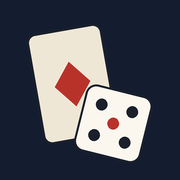
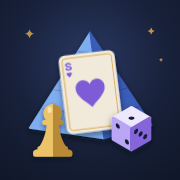
Nuova icona dell'app: asso di cuori con la S, pedone, piramide e dado
L'icona nasce da icone/icona.svg; icone/genera.js rigenera i PNG
(iPhone, Android e versione maskable). I link alle icone hanno ?v=2
così Safari non usa quella vecchia dalla cache.

Claude-Session: https://claude.ai/code/session_01HfzGfURkaaPzAZYyJ5YpxD

diff --git a/icone/genera.js b/icone/genera.js
@@ -1,0 +1,32 @@
+/* Rigenera le icone PNG dell'app a partire da icona.svg.
+   Uso (nella sandbox di Claude):
+     PLAYWRIGHT_BROWSERS_PATH=/opt/pw-browsers node icone/genera.js
+   Altrove indica dove sta Playwright con  PLAYWRIGHT=<percorso del pacchetto>. */
+const fs = require('fs');
+const path = require('path');
+const { chromium } = require(process.env.PLAYWRIGHT || '/opt/node-tools/node_modules/playwright');
+
+const svg = fs.readFileSync(path.join(__dirname, 'icona.svg'), 'utf8');
+const USCITE = [
+  // nome, lato in pixel, scala del disegno
+  ['icon-512.png', 512, 1],
+  ['icon-192.png', 192, 1],
+  ['apple-touch-icon.png', 180, 1],        // iPhone: «Aggiungi alla schermata Home»
+  ['icon-maskable-512.png', 512, 0.8]      // Android ritaglia l'icona: il disegno deve stare nel cerchio centrale
+];
+
+(async () => {
+  const browser = await chromium.launch();
+  for (const [nome, lato, scala] of USCITE) {
+    const page = await browser.newPage({ viewport: { width: lato, height: lato } });
+    await page.setContent(`<style>html,body{margin:0}svg{display:block;width:${lato}px;height:${lato}px}</style>${svg}`);
+    if (scala !== 1) {
+      await page.evaluate(s => document.getElementById('disegno')
+        .setAttribute('transform', `translate(256 256) scale(${s}) translate(-256 -256)`), scala);
+    }
+    await page.screenshot({ path: path.join(__dirname, nome) });
+    await page.close();
+    console.log('ok', nome);
+  }
+  await browser.close();
+})();

diff --git a/giochi/segnapunti/index.html b/giochi/segnapunti/index.html
@@ -10,8 +10,8 @@
 <meta name="apple-mobile-web-app-status-bar-style" content="default">
 <meta name="apple-mobile-web-app-title" content="Giochi">
 <link rel="manifest" href="../../manifest.webmanifest">
-<link rel="icon" type="image/png" href="../../icone/icon-192.png">
-<link rel="apple-touch-icon" href="../../icone/apple-touch-icon.png">
+<link rel="icon" type="image/png" href="../../icone/icon-192.png?v=2">
+<link rel="apple-touch-icon" href="../../icone/apple-touch-icon.png?v=2">
 <style>:root{color-scheme:light;padding-top:env(safe-area-inset-top,0px);padding-bottom:env(safe-area-inset-bottom,0px)}body{margin:0}img{max-width:100%}[hidden]{display:none!important}</style>
 <title>Segnapunti Prese</title>
 <link rel="preconnect" href="https://fonts.googleapis.com">

diff --git a/giochi/contamonete/index.html b/giochi/contamonete/index.html
@@ -9,8 +9,8 @@
 <meta name="apple-mobile-web-app-status-bar-style" content="black-translucent">
 <meta name="apple-mobile-web-app-title" content="Giochi">
 <link rel="manifest" href="../../manifest.webmanifest">
-<link rel="icon" type="image/png" href="../../icone/icon-192.png">
-<link rel="apple-touch-icon" href="../../icone/apple-touch-icon.png">
+<link rel="icon" type="image/png" href="../../icone/icon-192.png?v=2">
+<link rel="apple-touch-icon" href="../../icone/apple-touch-icon.png?v=2">
 <title>Conta Monete</title>
 <link rel="preconnect" href="https://fonts.googleapis.com">
 <link rel="preconnect" href="https://fonts.gstatic.com" crossorigin>

diff --git a/giochi/chiinizia/index.html b/giochi/chiinizia/index.html
@@ -9,8 +9,8 @@
 <meta name="apple-mobile-web-app-status-bar-style" content="black-translucent">
 <meta name="apple-mobile-web-app-title" content="Giochi">
 <link rel="manifest" href="../../manifest.webmanifest">
-<link rel="icon" type="image/png" href="../../icone/icon-192.png">
-<link rel="apple-touch-icon" href="../../icone/apple-touch-icon.png">
+<link rel="icon" type="image/png" href="../../icone/icon-192.png?v=2">
+<link rel="apple-touch-icon" href="../../icone/apple-touch-icon.png?v=2">
 <title>Chi inizia</title>
 <link rel="preconnect" href="https://fonts.googleapis.com">
 <link rel="preconnect" href="https://fonts.gstatic.com" crossorigin>

diff --git a/giochi/contapunti/index.html b/giochi/contapunti/index.html
@@ -9,8 +9,8 @@
 <meta name="apple-mobile-web-app-status-bar-style" content="black-translucent">
 <meta name="apple-mobile-web-app-title" content="Giochi">
 <link rel="manifest" href="../../manifest.webmanifest">
-<link rel="icon" type="image/png" href="../../icone/icon-192.png">
-<link rel="apple-touch-icon" href="../../icone/apple-touch-icon.png">
+<link rel="icon" type="image/png" href="../../icone/icon-192.png?v=2">
+<link rel="apple-touch-icon" href="../../icone/apple-touch-icon.png?v=2">
 <title>Contapunti</title>
 <link rel="preconnect" href="https://fonts.googleapis.com">
 <link rel="preconnect" href="https://fonts.gstatic.com" crossorigin>

diff --git a/giochi/impostore/index.html b/giochi/impostore/index.html
@@ -9,8 +9,8 @@
 <meta name="apple-mobile-web-app-status-bar-style" content="black-translucent">
 <meta name="apple-mobile-web-app-title" content="Giochi">
 <link rel="manifest" href="../../manifest.webmanifest">
-<link rel="icon" type="image/png" href="../../icone/icon-192.png">
-<link rel="apple-touch-icon" href="../../icone/apple-touch-icon.png">
+<link rel="icon" type="image/png" href="../../icone/icon-192.png?v=2">
+<link rel="apple-touch-icon" href="../../icone/apple-touch-icon.png?v=2">
 <title>Impostore</title>
 <link rel="preconnect" href="https://fonts.googleapis.com">
 <link rel="preconnect" href="https://fonts.gstatic.com" crossorigin>

diff --git a/giochi/perudo/index.html b/giochi/perudo/index.html
@@ -9,8 +9,8 @@
 <meta name="apple-mobile-web-app-status-bar-style" content="black-translucent">
 <meta name="apple-mobile-web-app-title" content="Giochi">
 <link rel="manifest" href="../../manifest.webmanifest">
-<link rel="icon" type="image/png" href="../../icone/icon-192.png">
-<link rel="apple-touch-icon" href="../../icone/apple-touch-icon.png">
+<link rel="icon" type="image/png" href="../../icone/icon-192.png?v=2">
+<link rel="apple-touch-icon" href="../../icone/apple-touch-icon.png?v=2">
 <title>Perudo</title>
 <link rel="preconnect" href="https://fonts.googleapis.com">
 <link rel="preconnect" href="https://fonts.gstatic.com" crossorigin>

diff --git a/giochi/lupus/index.html b/giochi/lupus/index.html
@@ -9,8 +9,8 @@
 <meta name="apple-mobile-web-app-status-bar-style" content="black-translucent">
 <meta name="apple-mobile-web-app-title" content="Giochi">
 <link rel="manifest" href="../../manifest.webmanifest">
-<link rel="icon" type="image/png" href="../../icone/icon-192.png">
-<link rel="apple-touch-icon" href="../../icone/apple-touch-icon.png">
+<link rel="icon" type="image/png" href="../../icone/icon-192.png?v=2">
+<link rel="apple-touch-icon" href="../../icone/apple-touch-icon.png?v=2">
 <title>Lupus</title>
 <link rel="preconnect" href="https://fonts.googleapis.com">
 <link rel="preconnect" href="https://fonts.gstatic.com" crossorigin>

diff --git a/index.html b/index.html
@@ -9,8 +9,8 @@
 <meta name="apple-mobile-web-app-status-bar-style" content="black-translucent">
 <meta name="apple-mobile-web-app-title" content="Giochi">
 <link rel="manifest" href="manifest.webmanifest">
-<link rel="icon" type="image/png" href="icone/icon-192.png">
-<link rel="apple-touch-icon" href="icone/apple-touch-icon.png">
+<link rel="icon" type="image/png" href="icone/icon-192.png?v=2">
+<link rel="apple-touch-icon" href="icone/apple-touch-icon.png?v=2">
 <title>Giochi di Simo</title>
 <link rel="preconnect" href="https://fonts.googleapis.com">
 <link rel="preconnect" href="https://fonts.gstatic.com" crossorigin>

diff --git a/giochi/poker/index.html b/giochi/poker/index.html
@@ -8,8 +8,8 @@
 <meta name="mobile-web-app-capable" content="yes">
 <meta name="apple-mobile-web-app-title" content="Giochi">
 <link rel="manifest" href="../../manifest.webmanifest">
-<link rel="icon" type="image/png" href="../../icone/icon-192.png">
-<link rel="apple-touch-icon" href="../../icone/apple-touch-icon.png">
+<link rel="icon" type="image/png" href="../../icone/icon-192.png?v=2">
+<link rel="apple-touch-icon" href="../../icone/apple-touch-icon.png?v=2">
 <title>Fiches</title>
 <link rel="preconnect" href="https://fonts.googleapis.com">
 <link rel="preconnect" href="https://fonts.gstatic.com" crossorigin>

diff --git a/giochi/7wonders/index.html b/giochi/7wonders/index.html
@@ -8,8 +8,8 @@
 <meta name="apple-mobile-web-app-title" content="Giochi">
 <meta name="theme-color" content="#161A2C">
 <link rel="manifest" href="../../manifest.webmanifest">
-<link rel="icon" type="image/png" href="../../icone/icon-192.png">
-<link rel="apple-touch-icon" href="../../icone/apple-touch-icon.png">
+<link rel="icon" type="image/png" href="../../icone/icon-192.png?v=2">
+<link rel="apple-touch-icon" href="../../icone/apple-touch-icon.png?v=2">
 <title>7 Wonders</title>
 <link rel="preconnect" href="https://fonts.googleapis.com">
 <link rel="preconnect" href="https://fonts.gstatic.com" crossorigin>

diff --git a/CLAUDE.md b/CLAUDE.md
@@ -12,7 +12,7 @@ e vuole che tu faccia **tutto da solo**: modifica, prova, commit e push. Lui non
 
 1. Aggiungi la repo alla sessione (con permesso di push), clonala e lavora su `main`.
 2. Fai la modifica.
-3. Prova in un browser vero. Playwright è in `/opt/npm-tools/node_modules/playwright`, con
+3. Prova in un browser vero. Playwright è in `/opt/node-tools/node_modules/playwright`, con
    `PLAYWRIGHT_BROWSERS_PATH=/opt/pw-browsers`. Servi la repo con `python3 -m http.server`,
    blocca i Google Fonts (dalla sandbox non si raggiungono) e usa un viewport da iPhone
    (`390×844`, `hasTouch`, `isMobile`). Controlla gli errori della pagina e guarda gli screenshot.
@@ -34,6 +34,7 @@ e vuole che tu faccia **tutto da solo**: modifica, prova, commit e push. Lui non
 | `giochi/<nome>/index.html` | Una pagina per gioco, autonoma (HTML, CSS e JS nello stesso file). |
 | `giochi/impostore/parole.js` | **Parole di Impostore**, divise in pacchetti. |
 | `giochi/lupus/ruoli.js` | **Ruoli di Lupus**. |
+| `icone/icona.svg` | **Icona dell'app** (asso di cuori con la S, pedone, piramide, dado). I PNG si rigenerano con `PLAYWRIGHT_BROWSERS_PATH=/opt/pw-browsers node icone/genera.js`; se cambi l'icona, alza anche il `?v=` nei link `icone/…` delle pagine e del manifest. |
 
 Categorie in `giochi.js`:
 - `carte` (Dichiarare, Pegno, Tresette, Conta Monete);
